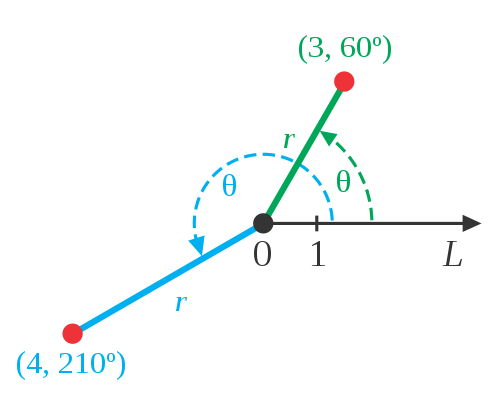
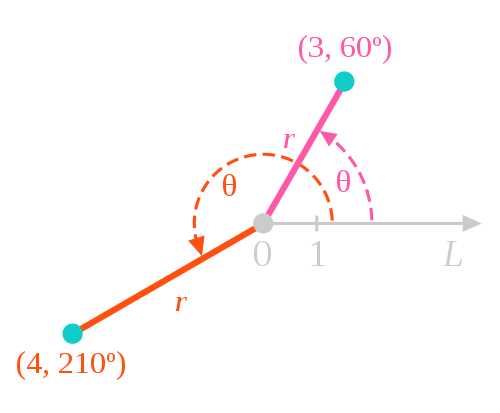
Obsidian Backup 2021-09-24 21:31

diff --git a/Zettelkasten/極座標系統.md b/Zettelkasten/極座標系統.md
@@ -1,7 +1,7 @@
 # 極座標系統
 #天文 
 
-![[極坐標系.png]]
+![[極坐標系 2.png]]
 ### 表示法:
 A[x,$\theta$] :
 x: A與原點的距離
